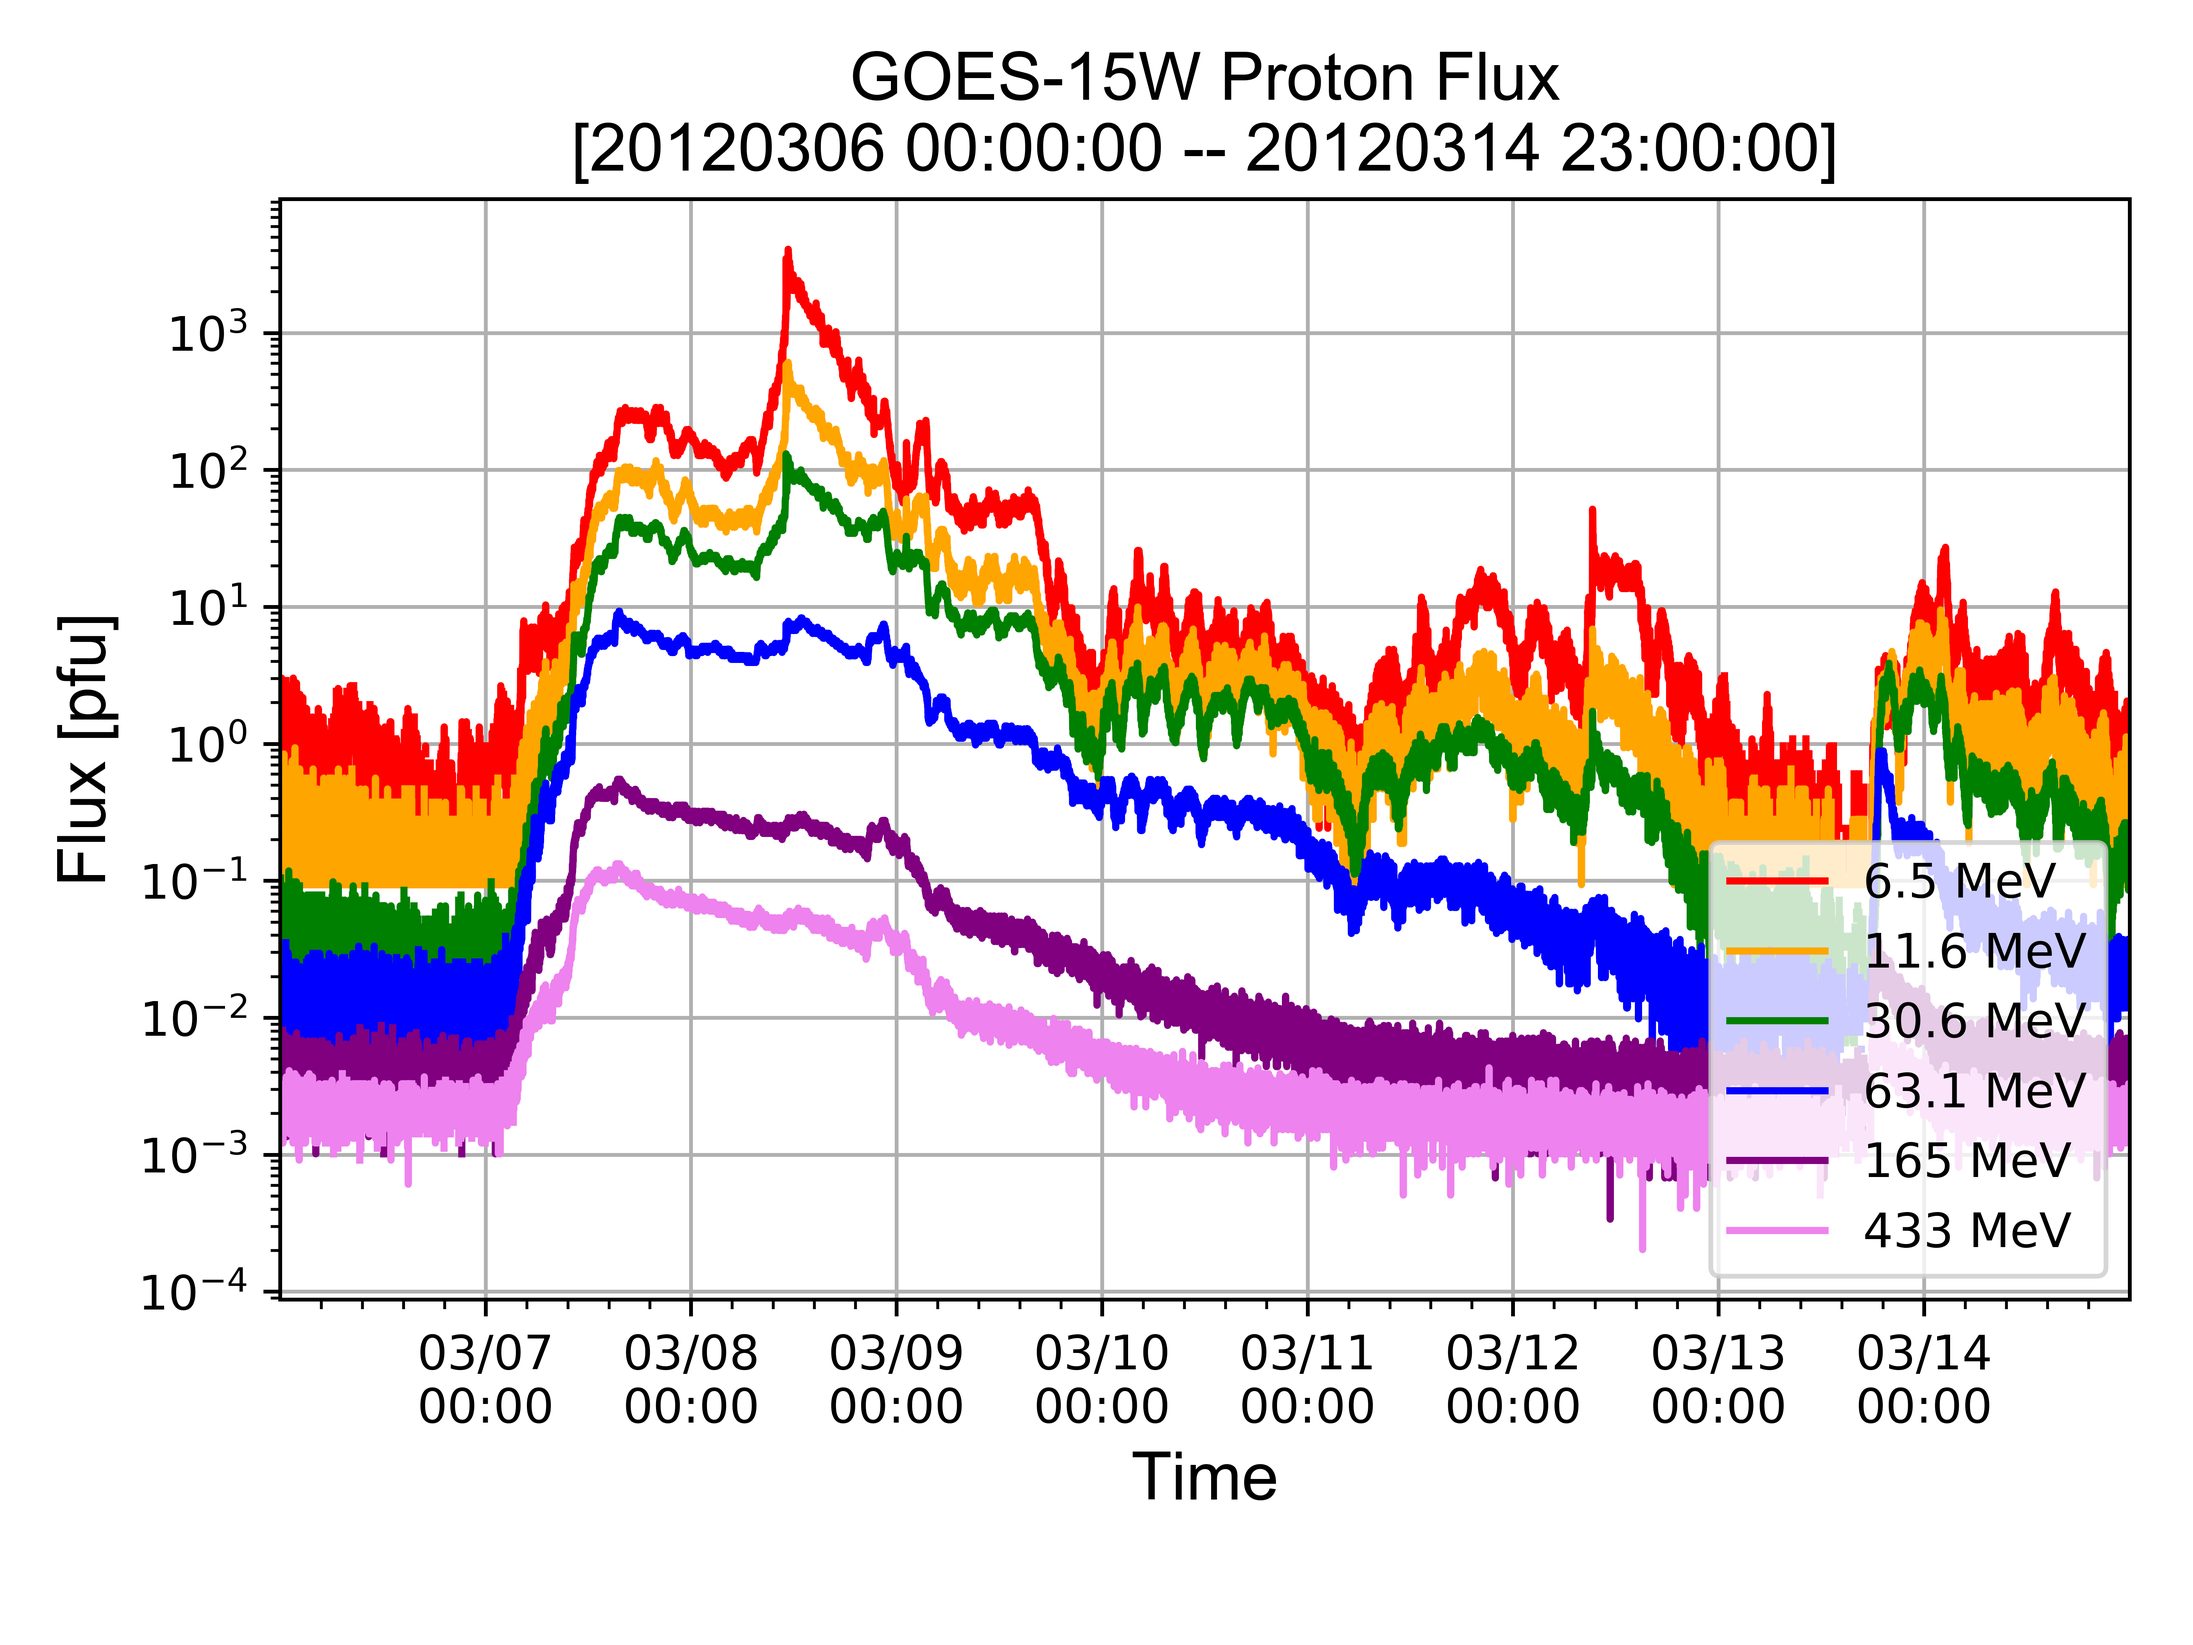
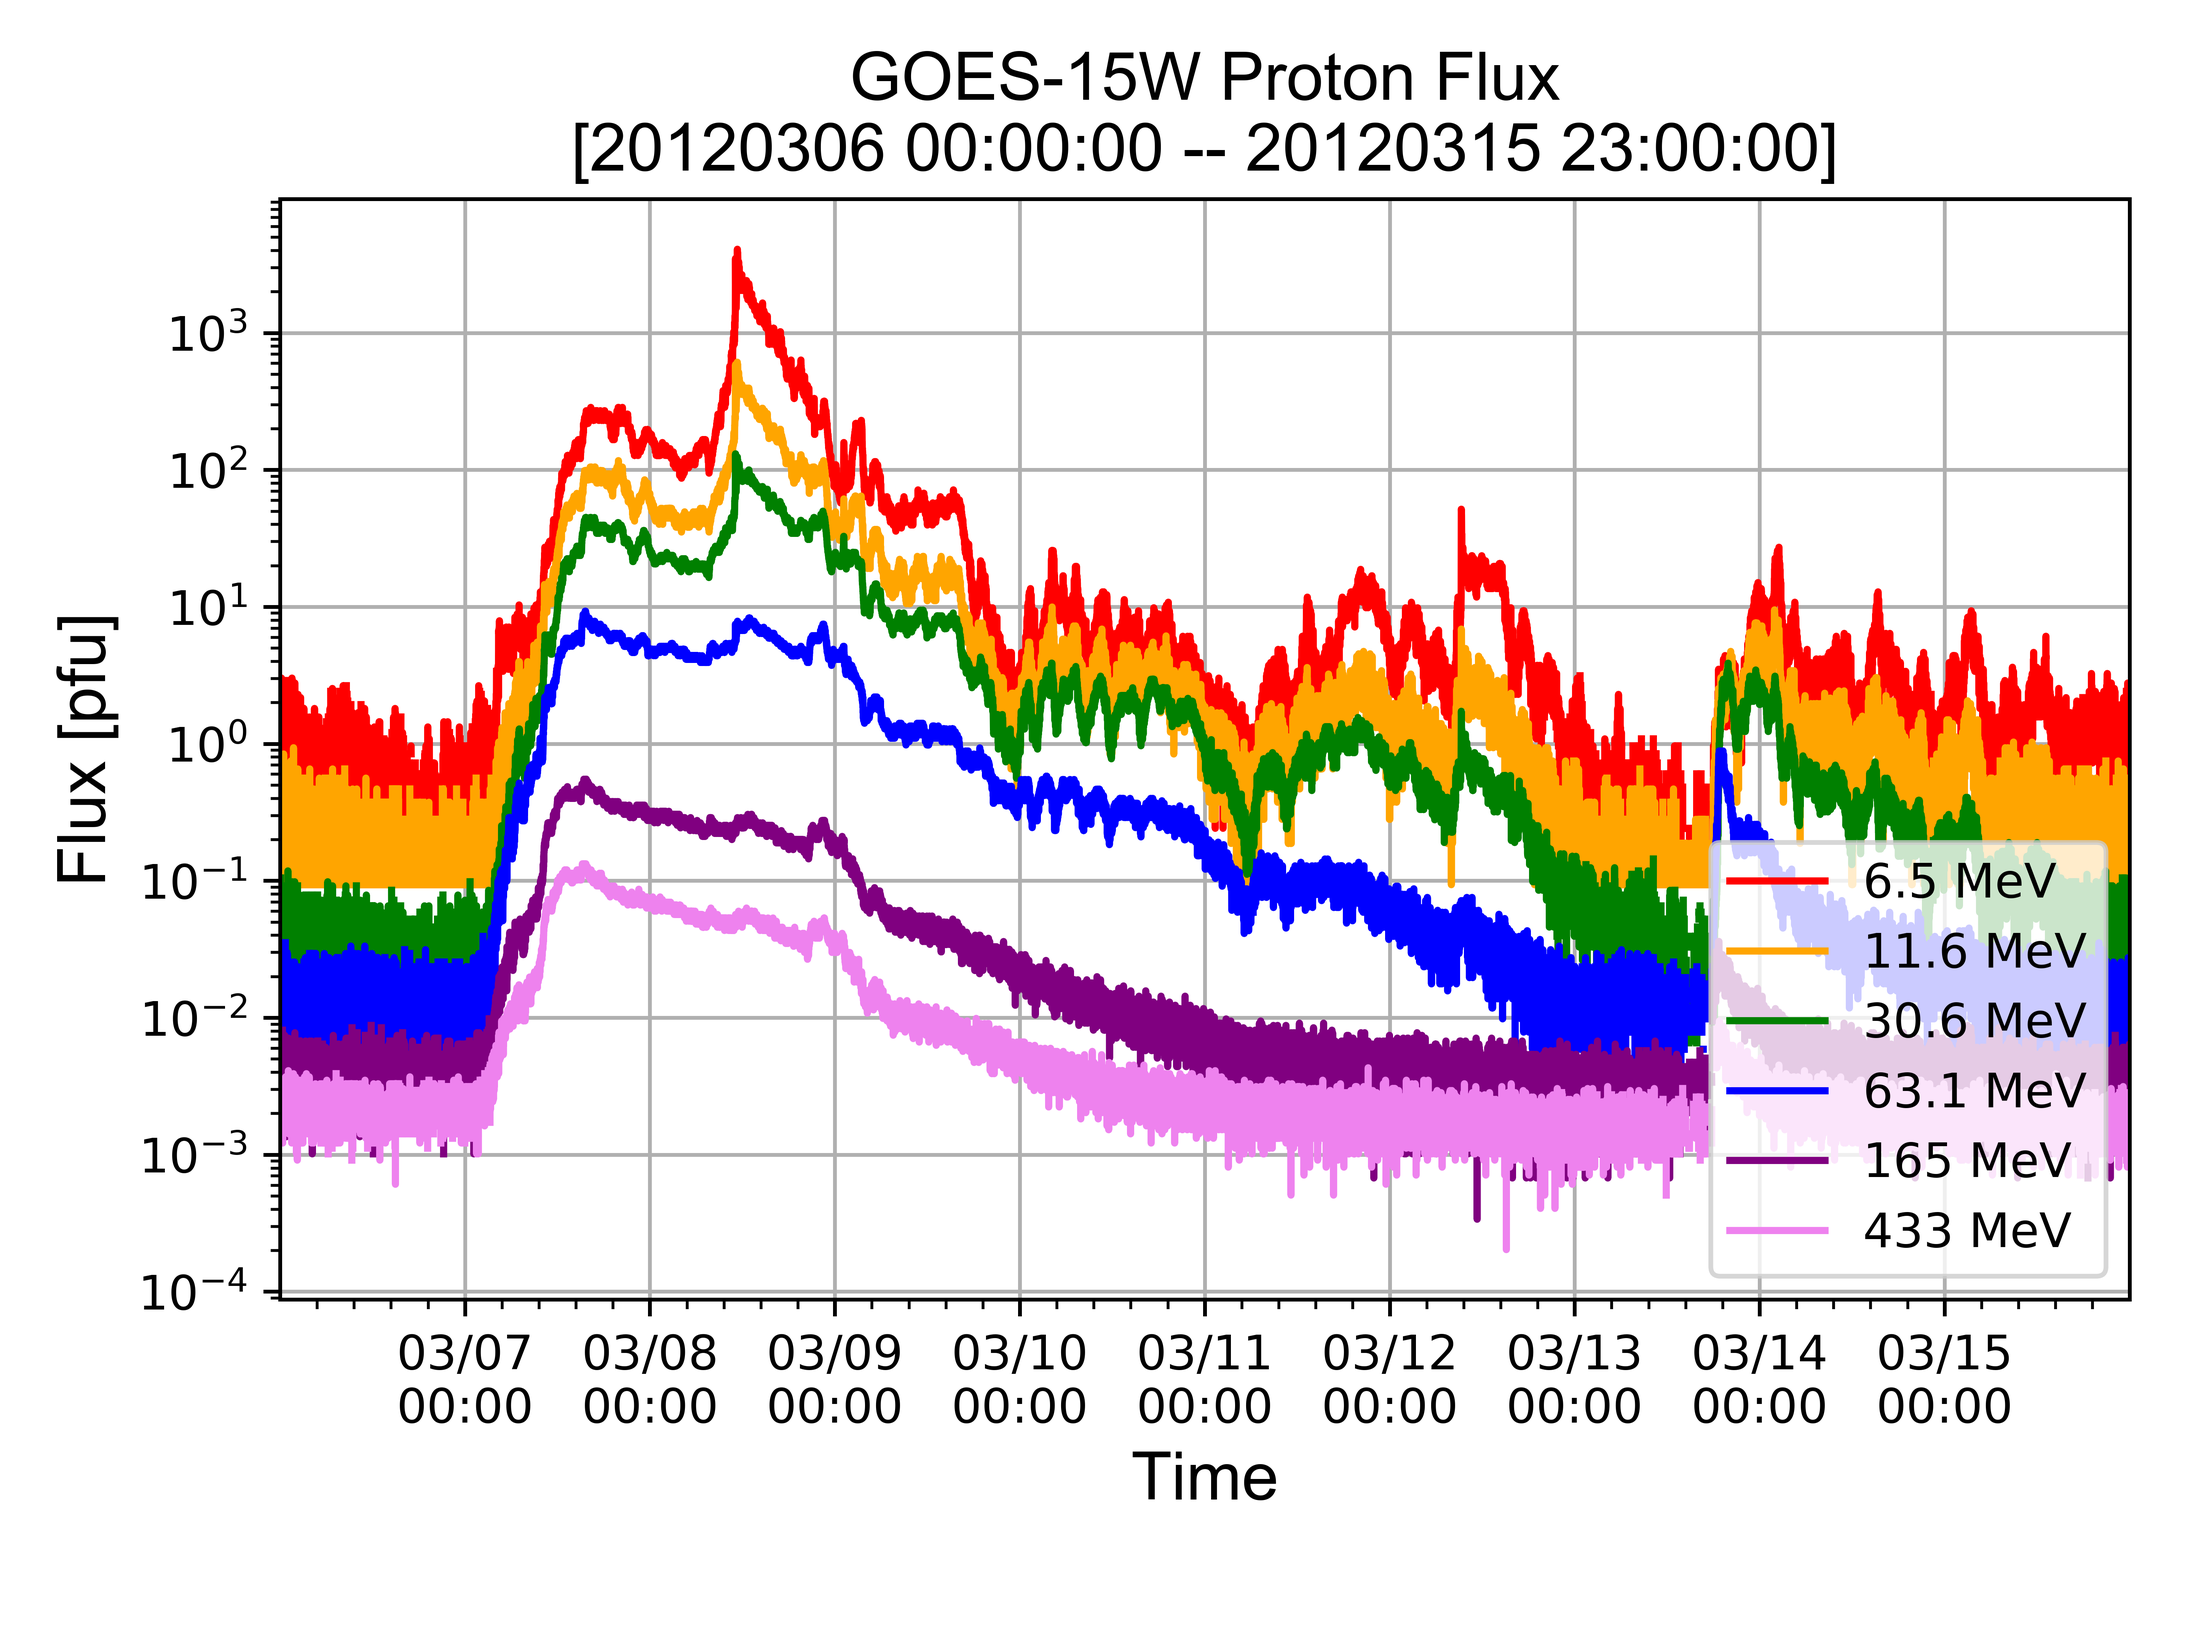
proton flux fixes and channel selector

diff --git a/Scripts/deprecated_scripts/pandas_test_proton_v01.py b/Scripts/deprecated_scripts/pandas_test_proton_v01.py
@@ -62,20 +62,12 @@ start = datetime.date( year = int(f'{start_date[0:4]}'), month = int(f'{start_da
 end = datetime.date( year = int(f'{end_date[0:4]}'), month = int(f'{end_date[4:6]}') , day = int(f'{end_date[6:8]}') )
 
 #===========Specify energy range bins
-print('Energy Channels\n======================\n1: 6.5 MeV\n2: 11.6 MeV\n3: 30.6 MeV\n4: 63.1 MeV\n5: 165 MeV\n6: 433 MeV')
+print('Energy Ranges\n======================\n1: 6.5 MeV\n2: 11.6 MeV\n3: 30.6 MeV\n4: 63.1 MeV\n5: 165 MeV\n6: 433 MeV')
 energy_bin_set = set()
 
 while True: # energy_bin != 'done':
-	energy_bin = input('Enter Energy Channel(s) or "full": ')
+	energy_bin = input('Enter Energy Range: ')
 	if energy_bin != 'done':
-		if energy_bin == 'full':
-			energy_bin_set.add('1')
-			energy_bin_set.add('2')
-			energy_bin_set.add('3')
-			energy_bin_set.add('4')
-			energy_bin_set.add('5')
-			energy_bin_set.add('6')
-			break
 		if int(energy_bin) < 7:
 			energy_bin_set.add(energy_bin)
 			#print(len(energy_bin_set))
@@ -89,21 +81,42 @@ while True: # energy_bin != 'done':
 energy_bin_list = []
 for i in energy_bin_set:
 	if '1' in i:
-		energy_bin_list.append(['P2W_UNCOR_FLUX','6.5 MeV', 'red'])
+		energy_bin_list.append(['P2W_UNCOR_FLUX','6.5 MeV'])
 	elif '2' in i:
-		energy_bin_list.append(['P3W_UNCOR_FLUX','11.6 MeV','orange'])
+		energy_bin_list.append(['P3W_UNCOR_FLUX','11.6 MeV'])
 	elif '3' in i:
-		energy_bin_list.append(['P4W_UNCOR_FLUX','30.6 MeV','green'])
+		energy_bin_list.append(['P4W_UNCOR_FLUX','30.6 MeV'])
 	elif '4' in i:
-		energy_bin_list.append(['P5W_UNCOR_FLUX','63.1 MeV','blue'])
+		energy_bin_list.append(['P5W_UNCOR_FLUX','63.1 MeV'])
 	elif '5' in i:
-		energy_bin_list.append(['P6W_UNCOR_FLUX','165 MeV','purple'])
+		energy_bin_list.append(['P6W_UNCOR_FLUX','165 MeV'])
 	elif '6' in i:
-		energy_bin_list.append(['P7W_UNCOR_FLUX','433 MeV','violet'])
+		energy_bin_list.append(['P7W_UNCOR_FLUX','433 MeV'])
+
+
+
+
+
+
+
+
+
+#===========Define Paths
+#full_proton_path_start = f'/Users/bryanyamashiro/Desktop/GoddardInternship2/Data_Reduction_final/GOES/original/Epead/{start_date[0:6]}'
+#full_proton_path_end = f'/Users/bryanyamashiro/Desktop/GoddardInternship2/Data_Reduction_final/GOES/original/Epead/{end_date[0:6]}'
+#full_proton_path = f'/Users/bryanyamashiro/Desktop/GoddardInternship2/Data_Reduction_final/GOES/original/Epead/'
 
 
 
 #===========Data
+
+
+#radio_name = f'g15_epead_p27w_32s_{event_date}_{event_date}.csv'
+#proton_url = f'https://cdaweb.gsfc.nasa.gov/pub/data/wind/waves/wav_h1/{event_date[:4]}/{radio_name}'
+#proton_url = f'https://satdat.ngdc.noaa.gov/sem/goes/data/new_full/{start_year}/{start_month}/goes15/csv/'
+#proton_in = wget.download(proton_url)
+
+
 proton_df = pd.DataFrame([])
 
 for date in daterange( start, end ):
@@ -113,6 +126,9 @@ for date in daterange( start, end ):
 		proton_name = f'g15_epead_p27w_32s_{event_date}_{event_date}.csv'
 		proton_url = f'https://satdat.ngdc.noaa.gov/sem/goes/data/new_full/{event_date[:4]}/{event_date[4:6]}/goes15/csv/{proton_name}'
 		proton_in = wget.download(proton_url)
+		print(f'\nParsing GOES-15W Data for {date}')
+
+
 
 		#name_list = ['datetime'] + [ str(i) for i in sorted_nm_list]
 
@@ -155,15 +171,31 @@ event_obj_end_str_date = datetime.datetime.strftime(event_obj_end, '%Y%m%d %H')
 print(f'\nPlotting GOES-15W Proton Flux Data: [{event_obj_start_str} -- {event_obj_end_str}]')
 myFmt = mdates.DateFormatter('%m/%d\n%H:%M')
 
+#fig = plt.figure()
+#ax = fig.add_subplot(111)
+
+#plt.plot(proton_df.index, proton_2W_flux, '-', color='red', label= '6.5 MeV')
+#plt.plot(proton_df.index, proton_3W_flux, '-', color='orange', label= '11.6 MeV')
+#plt.plot(proton_df.index, proton_4W_flux, '-', color='green', label = '30.6 MeV')
+#plt.plot(proton_df.index, proton_5W_flux, '-', color='blue', label= '63.1 MeV')
+#plt.plot(proton_df.index, proton_6W_flux, '-', color='purple', label = '165 MeV')
+
 color_count = []
-for i in sorted(energy_bin_list):
-	#color_list = ['red','orange','yellow','green','blue','purple'] #,'yellow'
-	#color_list = list(set(color_list) - set(color_count))
+for i in energy_bin_list:
+	color_list = ['red','orange','yellow','green','blue','purple'] #,'yellow'
+	color_list = list(set(color_list) - set(color_count))
 
-	#rand_color = random.choice(color_list)
-	#color_count.append(rand_color)
+	rand_color = random.choice(color_list)
+	color_count.append(rand_color)
 
-	proton_df[f'{i[0]}'].loc[f'{event_obj_start_str_date}':f'{event_obj_end_str_date}'].plot(color=f'{i[2]}', label= f'{i[1]}')
+	proton_df[f'{i[0]}'].loc[f'{event_obj_start_str_date}':f'{event_obj_end_str_date}'].plot(color=rand_color, label= f'{i[1]}')
+#proton_df['P2W_UNCOR_FLUX'].loc[f'{event_obj_start_str_date}':f'{event_obj_end_str_date}'].plot(color='red', label= '6.5 MeV')
+#proton_df['P3W_UNCOR_FLUX'].loc[f'{event_obj_start_str_date}':f'{event_obj_end_str_date}'].plot(color='orange', label= '11.6 MeV')
+#proton_df['P4W_UNCOR_FLUX'].loc[f'{event_obj_start_str_date}':f'{event_obj_end_str_date}'].plot(color='green', label = '30.6 MeV')
+#proton_df['P5W_UNCOR_FLUX'].loc[f'{event_obj_start_str_date}':f'{event_obj_end_str_date}'].plot(color='blue', label= '63.1 MeV')
+#proton_df['P6W_UNCOR_FLUX'].loc[f'{event_obj_start_str_date}':f'{event_obj_end_str_date}'].plot(color='purple', label = '165 MeV')
+#proton_df['P7W_UNCOR_FLUX'].loc[f'{event_obj_start_str_date}':f'{event_obj_end_str_date}'].plot(color='violet', label = '433 MeV')
+
 
 
 plt.title(f'GOES-15W Proton Flux\n[{event_obj_start_str} -- {event_obj_end_str}]', fontname="Arial", fontsize = 14)
@@ -182,6 +214,6 @@ ax.xaxis.set_major_formatter(myFmt)
 plt.setp(ax.xaxis.get_majorticklabels(), rotation=0, horizontalalignment='center')
 #ax.xaxis.set_major_formatter(myFmt)
 
-plt.savefig('proton_remastered.png', format='png', dpi=900)
+#plt.savefig('proton.png', format='png', dpi=900)
 plt.show()
 #plt.clf()

diff --git a/README.md b/README.md
@@ -17,7 +17,7 @@
 
 - [ ] Remake GOES Proton Flux scripts
     - [x] Automate script to download File name: g15_epead_p27e_32s_20120307_20120307 from https://satdat.ngdc.noaa.gov/sem/goes/data/new_full/2012/03/goes15/csv/ (7/10/2017)
-    - [ ] Energy range flux selections (6 channels)
+    - [x] Energy range flux selections (6 channels) (7/10/2017)
     - [ ] Collect GOES data from legacy satellites if specific date is not found
         - [ ] Integrate GOES 8-13 satellites for date ranges
 
@@ -95,31 +95,24 @@ Parsing the ['INVK', 'OULU'] stations
 <img src="Plots/nm_data_test.png" width="500">
 
 
+
 ### Remastered GOES-15 Proton Flux ([prot_script_v2](https://github.com/byamashiro/Research_Projects/blob/master/Scripts/pandas_test_proton.py))
-In [53]: **run pandas_test_proton.py**  
+In [115]: **run pandas_test_proton.py**  
 Enter a start date (yyyymmdd): 20120306  
-Enter a end date (yyyymmdd): 20120314  
+Enter a end date (yyyymmdd): 20120315  
 Enter a start hour or "full": full  
-100% [........................................................] 445201 / 445201  
-Parsing GOES-15W Data for 2012-03-06  
-100% [........................................................] 456806 / 456806  
-Parsing GOES-15W Data for 2012-03-07  
-100% [........................................................] 458854 / 458854  
-Parsing GOES-15W Data for 2012-03-08  
-100% [........................................................] 457728 / 457728  
-Parsing GOES-15W Data for 2012-03-09  
-100% [........................................................] 458066 / 458066  
-Parsing GOES-15W Data for 2012-03-10  
-100% [........................................................] 457898 / 457898  
-Parsing GOES-15W Data for 2012-03-11  
-100% [........................................................] 457745 / 457745  
-Parsing GOES-15W Data for 2012-03-12  
-100% [........................................................] 445509 / 445509  
-Parsing GOES-15W Data for 2012-03-13  
-100% [........................................................] 458011 / 458011  
-Parsing GOES-15W Data for 2012-03-14  
-  
-Plotting GOES-15W Proton Flux Data: [20120306 00:00:00 -- 20120314 23:00:00]  
+Energy Channels  
+======================  
+1: 6.5 MeV  
+2: 11.6 MeV  
+3: 30.6 MeV  
+4: 63.1 MeV  
+5: 165 MeV  
+6: 433 MeV  
+Enter Energy Channel(s) or "full": full  
+100% [............................................................................] 456593 / 456593  
+Plotting GOES-15W Proton Flux Data: [20120306 00:00:00 -- 20120315 23:00:00]  
+
 
 <img src="Plots/proton_remastered_test.png" width="500">
 
